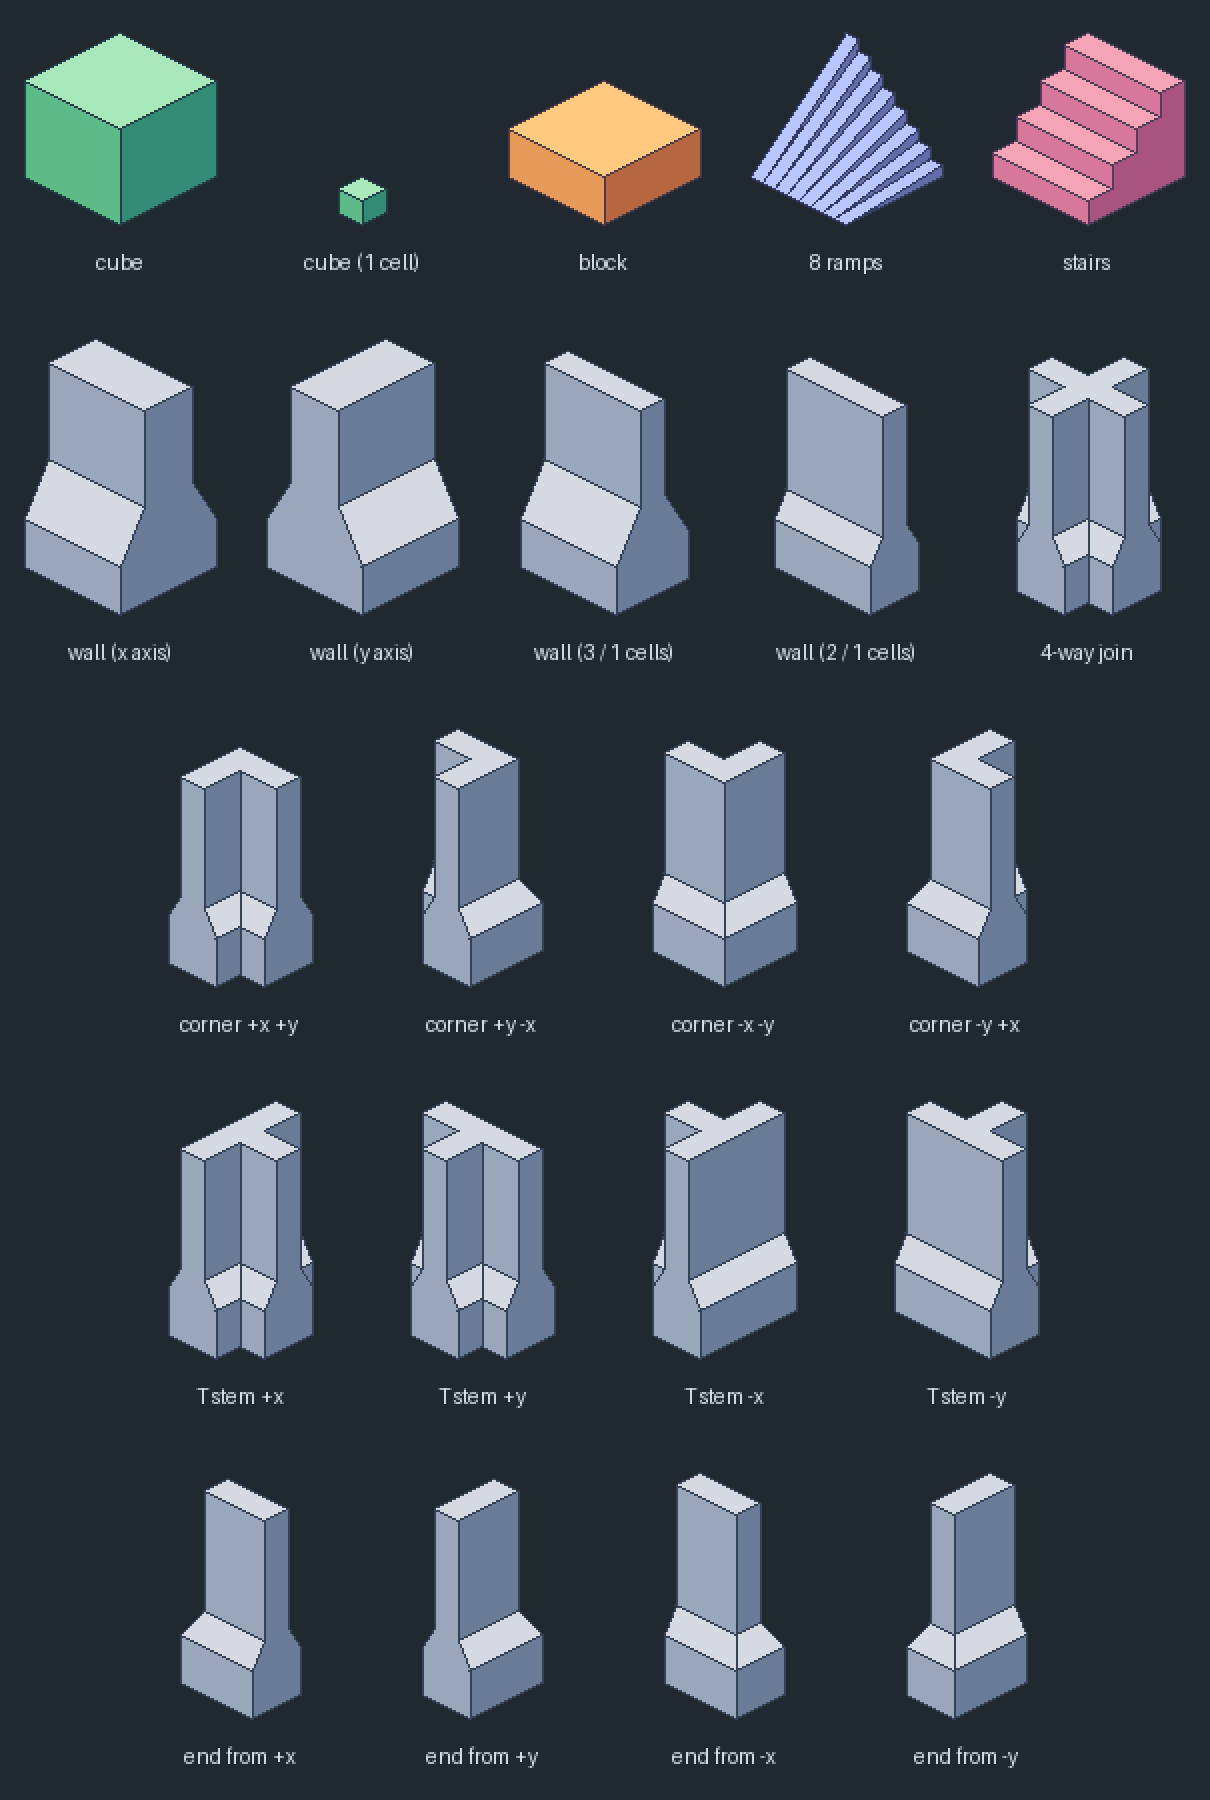
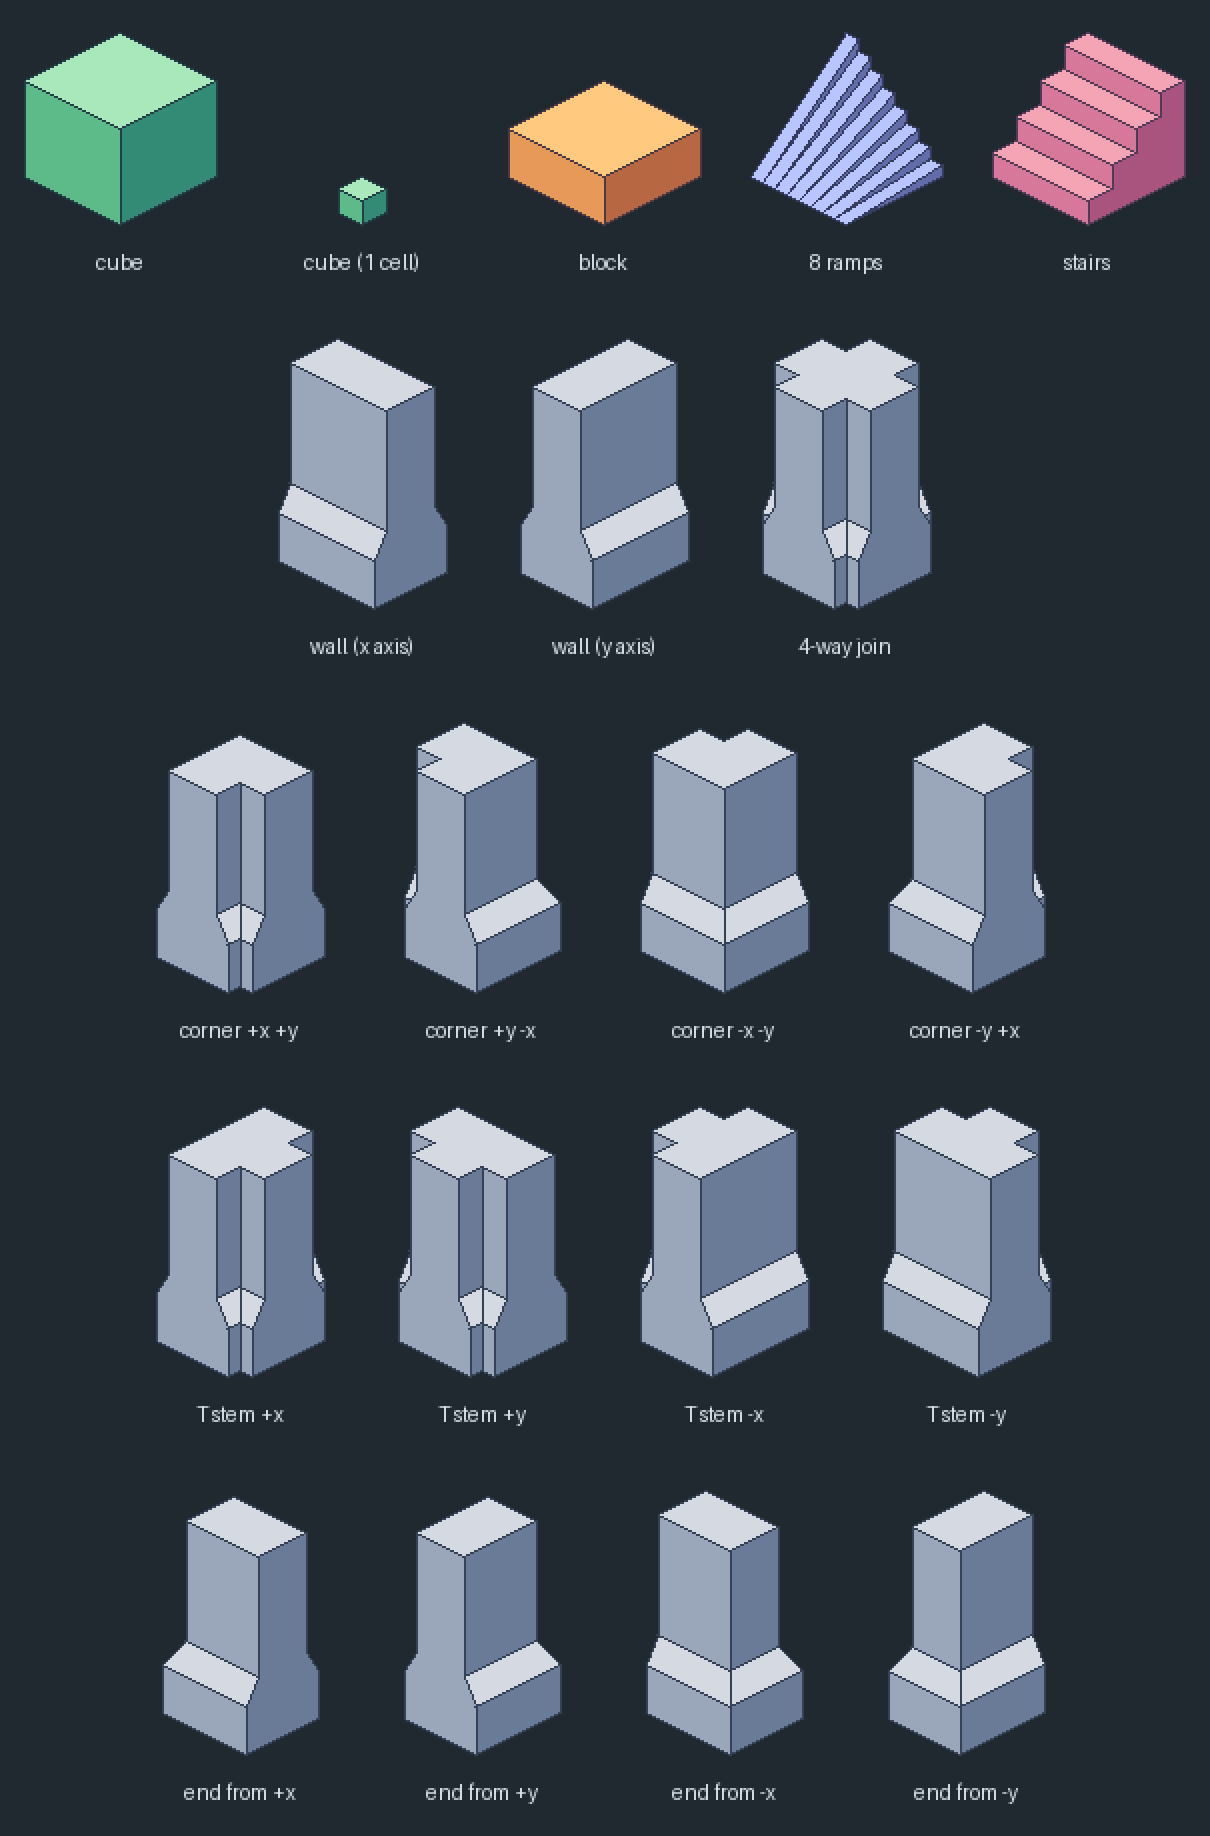
adjust wall shape

diff --git a/tests/test_geometry.py b/tests/test_geometry.py
@@ -6,11 +6,20 @@ import pytest
 from tilix import Face, Shape, block, cube, ramp, stairs, wall, wall_joint
 
 
-@pytest.mark.parametrize("factory", [cube, block, ramp, stairs, wall])
-def test_default_dimensions(factory):
+@pytest.mark.parametrize(
+    ("factory", "dimensions"),
+    [
+        (cube, (4, 4, 4)),
+        (block, (4, 4, 4)),
+        (ramp, (4, 4, 4)),
+        (stairs, (4, 4, 4)),
+        (wall, (4, 3, 8)),
+    ],
+)
+def test_default_dimensions(factory, dimensions):
     points = [p for face in factory().faces for p in face.vertices]
     assert tuple(min(p[i] for p in points) for i in range(3)) == (0, 0, 0)
-    assert tuple(max(p[i] for p in points) for i in range(3)) == (4, 4, 4)
+    assert tuple(max(p[i] for p in points) for i in range(3)) == dimensions
 
 
 def test_block_exposes_only_the_three_visible_surfaces():
@@ -85,7 +94,7 @@ def test_wall_preserves_exact_fractional_dimensions():
 
 
 def test_shallow_wall_shoulder_is_clipped_behind_the_upper_wall():
-    shoulder = wall(slope_height=Fraction(1, 2)).faces[0]
+    shoulder = wall(base_width=4, base_height=1, slope_height=Fraction(1, 2)).faces[0]
     assert shoulder.shade == "top"
     assert set(shoulder.vertices) == {(4, 0, 1), (4, 1, Fraction(3, 2)), (3, 0, 1)}
 
@@ -120,6 +129,10 @@ def test_perpendicular_wall_exchanges_the_ground_axes_and_side_shades():
 @pytest.mark.parametrize(
     "arms",
     [
+        ("+x",),
+        ("+y",),
+        ("-x",),
+        ("-y",),
         ("+x", "+y"),
         ("+y", "-x"),
         ("-x", "-y"),
@@ -137,23 +150,23 @@ def test_joint_fits_the_standard_tile_and_reaches_the_requested_edges(arms):
         0 <= x <= 4 and 0 <= y <= 4 for face in shape.faces for x, y, _ in face.vertices
     )
     roof = shape.faces[-1].vertices
-    assert {z for _, _, z in roof} == {4}
-    assert min(x for x, _, _ in roof) == (0 if "-x" in arms else Fraction(3, 2))
-    assert max(x for x, _, _ in roof) == (4 if "+x" in arms else Fraction(5, 2))
-    assert min(y for _, y, _ in roof) == (0 if "-y" in arms else Fraction(3, 2))
-    assert max(y for _, y, _ in roof) == (4 if "+y" in arms else Fraction(5, 2))
+    assert {z for _, _, z in roof} == {8}
+    assert min(x for x, _, _ in roof) == (0 if "-x" in arms else 1)
+    assert max(x for x, _, _ in roof) == (4 if "+x" in arms else 3)
+    assert min(y for _, y, _ in roof) == (0 if "-y" in arms else 1)
+    assert max(y for _, y, _ in roof) == (4 if "+y" in arms else 3)
     twice_area = sum(
         x * by - bx * y for (x, y, _), (bx, by, _) in pairwise((*roof, roof[0]))
     )
-    assert twice_area == 2 + 3 * len(arms)
+    assert twice_area == 8 + 4 * len(arms)
     assert wall_joint(*reversed(arms)) == shape
 
 
 @pytest.mark.parametrize(
-    ("axis", "index", "offset"), [("x", 0, (0, 1)), ("y", 1, (1, 0))]
+    ("axis", "index", "offset"), [("x", 0, (0, 0.5)), ("y", 1, (0.5, 0))]
 )
 def test_joint_ends_align_with_centered_straight_walls(axis, index, offset):
-    straight = wall(axis=axis, base_width=2, top_width=1).translated(*offset)
+    straight = wall(axis=axis).translated(*offset)
     corner = wall_joint("+x", "+y")
     (straight_end,) = [
         face for face in straight.faces if all(p[index] == 4 for p in face.vertices)
@@ -161,6 +174,16 @@ def test_joint_ends_align_with_centered_straight_walls(axis, index, offset):
     (corner_end,) = [
         face for face in corner.faces if all(p[index] == 4 for p in face.vertices)
     ]
+    assert {(p[1 - index], p[2]) for p in straight_end.vertices} == {
+        (0.5, 0),
+        (3.5, 0),
+        (0.5, 2),
+        (3.5, 2),
+        (1, 3),
+        (3, 3),
+        (1, 8),
+        (3, 8),
+    }
     assert set(corner_end.vertices) == set(straight_end.vertices)
     assert corner_end.shade == straight_end.shade
 
@@ -170,7 +193,7 @@ def test_joint_can_use_an_explicit_arm_extension_for_a_custom_tile():
     roof = shape.faces[-1].vertices
     for axis in (0, 1):
         assert min(p[axis] for p in roof) == 0
-        assert max(p[axis] for p in roof) == 8
+        assert max(p[axis] for p in roof) == 9
 
 
 def test_standard_joint_rejects_a_base_too_wide_for_its_arms():
@@ -190,7 +213,9 @@ def test_standard_joint_rejects_a_base_too_wide_for_its_arms():
 def test_wall_end_matches_the_joint_profile_and_tapers_at_the_terminal_face(
     arm, axis, tile_edge, base_end, top_end
 ):
-    profile = dict(base_width=2, top_width=1, slope_height=Fraction(1, 3))
+    profile = dict(
+        base_width=2, top_width=1, base_height=1, slope_height=Fraction(1, 3)
+    )
     shape = wall_joint(arm, **profile)
     cross = wall_joint("+x", "+y", "-x", "-y", **profile)
     vertices = {p for face in shape.faces for p in face.vertices}

diff --git a/tests/test_render.py b/tests/test_render.py
@@ -140,9 +140,9 @@ def test_clipped_corners_preserve_an_opaque_background_at_integer_scale():
         stairs(),
         wall(),
         wall(base_height=4, slope_height=4, top_height=8),
-        wall(slope_height=Fraction(1, 2)),
+        wall(base_width=4, slope_height=Fraction(1, 2)),
         wall(length=1, base_width=6, slope_height=1),
-        wall(slope_height=Fraction(1, 2), top_height=Fraction(1, 3)),
+        wall(base_width=4, slope_height=Fraction(1, 2), top_height=Fraction(1, 3)),
     ],
 )
 def test_shapes_have_no_transparent_holes_in_their_scanlines(shape):
@@ -186,30 +186,28 @@ def test_one_step_stairs_render_as_a_block():
 
 def test_equal_width_wall_renders_as_a_block_without_tier_seams():
     actual = render(wall(length=3, base_width=2, top_width=2))
-    expected = render(block(3, 2, 4))
+    expected = render(block(3, 2, 8))
     assert actual.size == expected.size
     assert actual.tobytes() == expected.tobytes()
 
 
 def test_wall_example_renders_at_full_height():
-    image = render(wall(base_height=2, slope_height=2, top_height=4), padding=0)
+    image = render(wall(), padding=0)
     assert image.mode == "RGBA"
-    assert image.size == (97, 139)
-    assert image.getchannel("A").getbbox() == (0, 0, 97, 139)
+    assert image.size == (85, 136)
+    assert image.getchannel("A").getbbox() == (0, 0, 85, 136)
 
 
 def test_cross_roof_and_front_cap_hide_edges_of_the_rear_arms():
     palette = Palette(top="red", left="green", right="blue", outline="black")
-    joint = wall_joint(
-        "+x", "+y", "-x", "-y", base_height=2, slope_height=1, top_height=5
-    )
+    joint = wall_joint("+x", "+y", "-x", "-y")
     image = render(joint, palette=palette, padding=0)
-    assert image.size == (73, 130)
-    assert image.getpixel((36, 15)) == palette.top
-    assert image.getpixel((24, 21)) == palette.top
-    assert image.getpixel((48, 21)) == palette.top
-    assert image.getpixel((60, 63)) == palette.right
-    assert image.getpixel((36, 57)) == palette.outline
+    assert image.size == (85, 136)
+    assert image.getpixel((42, 18)) == palette.top
+    assert image.getpixel((18, 24)) == palette.top
+    assert image.getpixel((66, 24)) == palette.top
+    assert image.getpixel((66, 42)) == palette.right
+    assert image.getpixel((42, 42)) == palette.outline
     assert (
         render(joint.translated(2, -3, 1), palette=palette, padding=0).tobytes()
         == image.tobytes()

diff --git a/examples/gallery.py b/examples/gallery.py
@@ -51,10 +51,6 @@ def ramp_group() -> Shape:
 def main() -> None:
     output = Path("output")
     output.mkdir(exist_ok=True)
-    standard_wall = dict(base_height=2, slope_height=2, top_height=4)
-    thin_wall = dict(
-        base_width=2, top_width=1, base_height=2, slope_height=1, top_height=5
-    )
     corners = {
         "wall_corner_positive_x_positive_y": ("+x", "+y"),
         "wall_corner_positive_y_negative_x": ("+y", "-x"),
@@ -80,17 +76,11 @@ def main() -> None:
         "block": block(width=BLOCK_CELLS, depth=BLOCK_CELLS, height=2),
         "ramps": ramp_group(),
         "stairs": stairs(width=BLOCK_CELLS, depth=BLOCK_CELLS, height=4),
-        "wall": wall(**standard_wall),
-        "wall_y": wall(axis="y", **standard_wall),
-        "wall_narrow": wall(
-            base_width=3,
-            top_width=1,
-            **standard_wall,
-        ).translated(y=Fraction(1, 2)),
-        "wall_thin": wall(**thin_wall).translated(y=1),
-        "wall_cross": wall_joint("+x", "+y", "-x", "-y", **thin_wall),
+        "wall": wall().translated(y=Fraction(1, 2)),
+        "wall_y": wall(axis="y").translated(x=Fraction(1, 2)),
+        "wall_cross": wall_joint("+x", "+y", "-x", "-y"),
         **{
-            name: wall_joint(*arms, **thin_wall)
+            name: wall_joint(*arms)
             for variants in (corners, tees, ends)
             for name, arms in variants.items()
         },
@@ -116,8 +106,6 @@ def main() -> None:
         "ramps": "8 ramps",
         "wall": "wall (x axis)",
         "wall_y": "wall (y axis)",
-        "wall_narrow": "wall (3 / 1 cells)",
-        "wall_thin": "wall (2 / 1 cells)",
         "wall_cross": "4-way join",
         **{name: f"corner {' '.join(arms)}" for name, arms in corners.items()},
         **{name: f"T stem {arms[0]}" for name, arms in tees.items()},
@@ -129,7 +117,7 @@ def main() -> None:
     }
     rows = (
         ("cube", "cell_cube", "block", "ramps", "stairs"),
-        ("wall", "wall_y", "wall_narrow", "wall_thin", "wall_cross"),
+        ("wall", "wall_y", "wall_cross"),
         tuple(corners),
         tuple(tees),
         tuple(ends),

diff --git a/src/tilix/geometry.py b/src/tilix/geometry.py
@@ -125,11 +125,11 @@ def wall(
     length: Scalar = 4,
     *,
     axis: WallAxis = "x",
-    base_width: Scalar = 4,
-    base_height: Scalar = 1,
+    base_width: Scalar = 3,
+    base_height: Scalar = 2,
     slope_height: Scalar = 1,
     top_width: Scalar = 2,
-    top_height: Scalar = 2,
+    top_height: Scalar = 5,
 ) -> Shape:
     """A wall along +x or +y with a centered, narrower top and sloping shoulders.
 
@@ -270,11 +270,11 @@ def _joint_perimeter(arms: tuple[WallDirection, ...]) -> tuple[tuple[int, int], 
 def wall_joint(
     *arms: WallDirection,
     length: Scalar | None = None,
-    base_width: Scalar = 2,
-    base_height: Scalar = 1,
+    base_width: Scalar = 3,
+    base_height: Scalar = 2,
     slope_height: Scalar = 1,
-    top_width: Scalar = 1,
-    top_height: Scalar = 2,
+    top_width: Scalar = 2,
+    top_height: Scalar = 5,
 ) -> Shape:
     """Build a tapered wall piece using arms '+x', '+y', '-x', or '-y'.
 

diff --git a/README.md b/README.md
@@ -25,7 +25,7 @@ uv sync --locked
 uv run python examples/gallery.py
 ```
 
-The example saves 22 transparent sprites and a gallery to `output/`. The cube,
+The example saves 20 transparent sprites and a gallery to `output/`. The cube,
 block, combined ramps, and stairs each have a one-block base: 4×4 cells, each cell a
 square of 7×7 dual pixels. Their heights vary independently of the base footprint.
 A second cube, saved as `cell_cube.png`, measures 1×1×1 cells and appears beside
@@ -35,17 +35,10 @@ The eight ramps are composed into one sprite, `ramps.png`. Each ramp is 1/8 bloc
 single 4×4-cell base. Their heights descend from one block to 1/8 block in
 1/8-block steps. The composition uses a shared ground plane and draws only
 exposed surfaces, so hidden side edges do not show through adjacent ramps.
-The wall example, `wall.png`, is one block long with a full-block base width.
-Its base and sloped transition are each two cells high; the centered upper wall
-is half a block wide and four cells high, giving a total height of eight cells.
-The narrower variant, `wall_narrow.png`, has a three-cell base width and a
-one-cell top width, with the same length and 2 + 2 + 4 cell heights.
-The third variant, `wall_thin.png`, reduces the base width to two cells and keeps
-the one-cell top width and one-block length. Its base, slope, and top heights are
-2 + 1 + 5 cells, giving a total height of eight cells.
-The gallery also includes `wall_y.png`, four tapered end pieces, four 90-degree
-corners, four T-joints, and a four-way join. Every wall sprite fits within one
-4×4-cell tile. The ends and joints use the same profile as `wall_thin.png`.
+The gallery includes two straight walls (`wall.png` and `wall_y.png`), four
+tapered ends, four 90-degree corners, four T-joints, and a four-way join. Each
+wall fits within one 4×4-cell tile. The base is 3 cells wide and 2 cells high,
+the taper is 1 cell high, and the top is 2 cells wide and 5 cells high.
 
 ## Use the library
 
@@ -85,26 +78,13 @@ toward y=depth. Dimensions must be positive and finite.
 
 Straight walls run along +x by default. Use `axis="y"` for the perpendicular
 wall. The upper wall is centered on the base, with `top_width <= base_width`.
-The three tier heights add together. Equal widths give a straight wall a
-rectangular profile. For the gallery's 2 + 2 + 4 cell example (one block is four
-cells), use:
+Both straight walls and joints default to the gallery's 3-cell base, 2-cell
+top, and 2 + 1 + 5 cell tier heights. Equal widths give a straight wall a
+rectangular profile.
 
-```python
-from tilix import render, wall
-
-shape = wall(
-    length=4,
-    base_width=4,
-    base_height=2,
-    slope_height=2,
-    top_width=2,
-    top_height=4,
-)
-render(shape).save("wall.png")
-```
-
-By default, joints are centered at `(2, 2)` with a two-cell base width and a
-one-cell top width. Each arm reaches its tile edge at coordinate 0 or 4.
+By default, joints are centered at `(2, 2)`. Each arm reaches its tile edge at
+coordinate 0 or 4. Shift a default straight wall by half a cell across its width
+to align its ends with a joint.
 Use `"+x"`, `"+y"`, `"-x"`, and `"-y"` to choose the edges where the wall
 connects to another tile. A single arm makes a wall end whose terminal face
 uses the same inset and tier heights as the sides. Two perpendicular arms
@@ -116,8 +96,8 @@ measures `base_width + 2 * length`.
 ```python
 from tilix import render, wall, wall_joint
 
-straight_x = wall(base_width=2, top_width=1).translated(y=1)
-straight_y = wall(axis="y", base_width=2, top_width=1).translated(x=1)
+straight_x = wall().translated(y=0.5)
+straight_y = wall(axis="y").translated(x=0.5)
 render(straight_x).save("wall_tile_x.png")
 render(straight_y).save("wall_tile_y.png")
 render(wall_joint("+x")).save("wall_end_positive_x.png")
